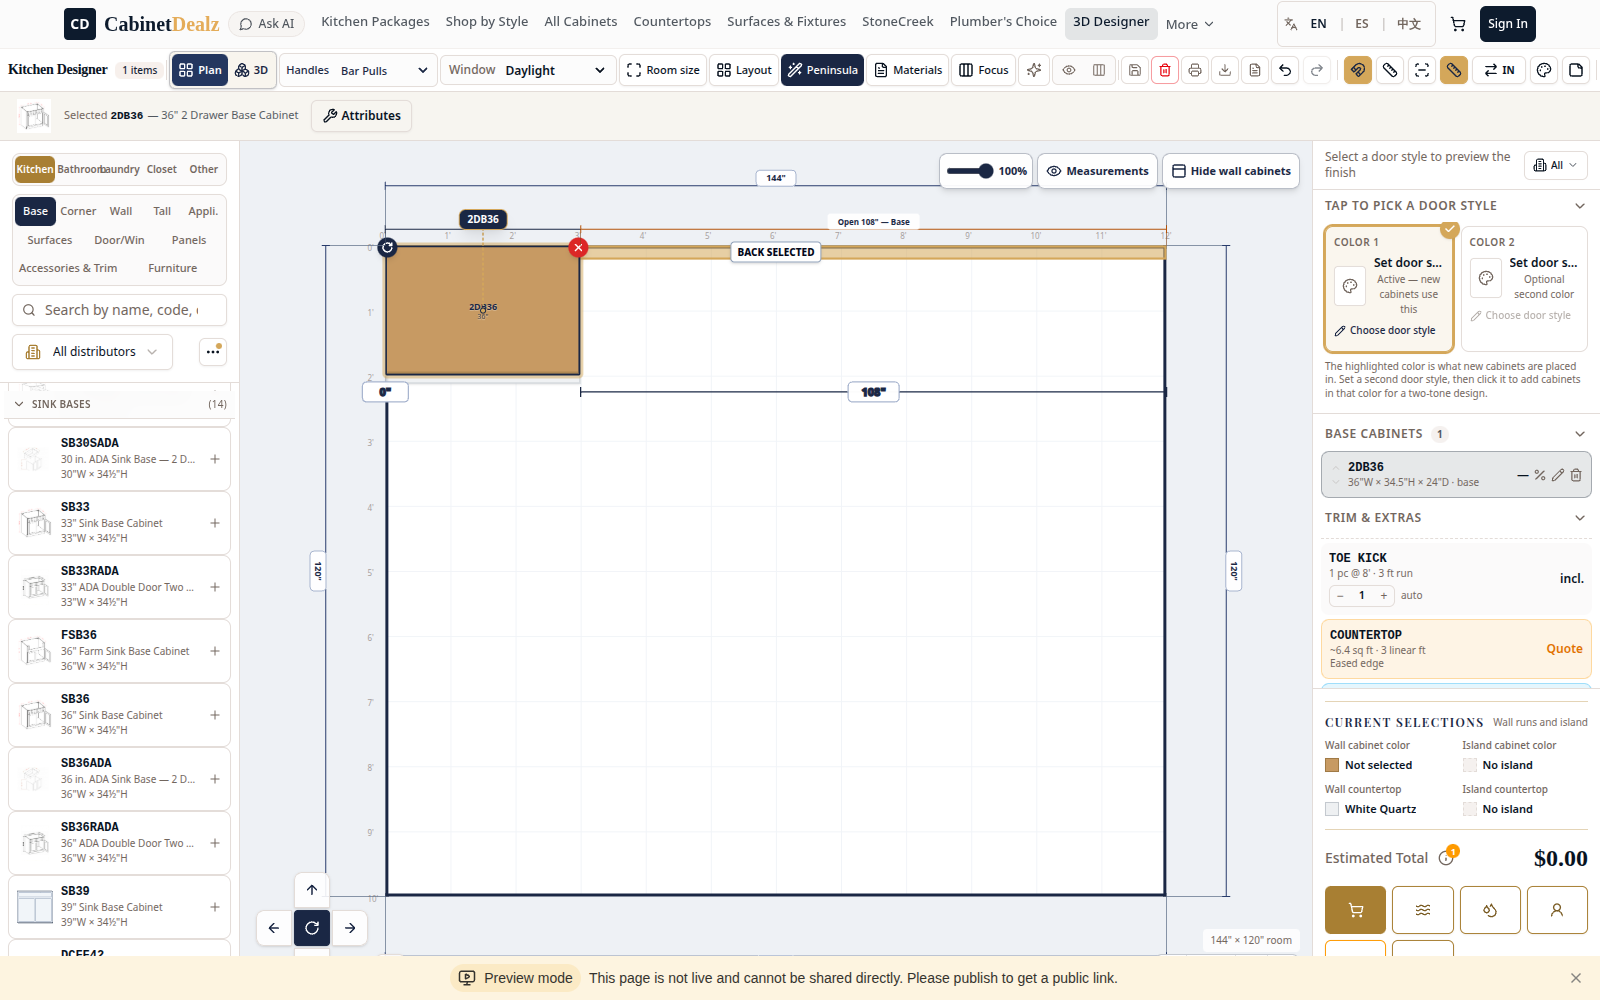
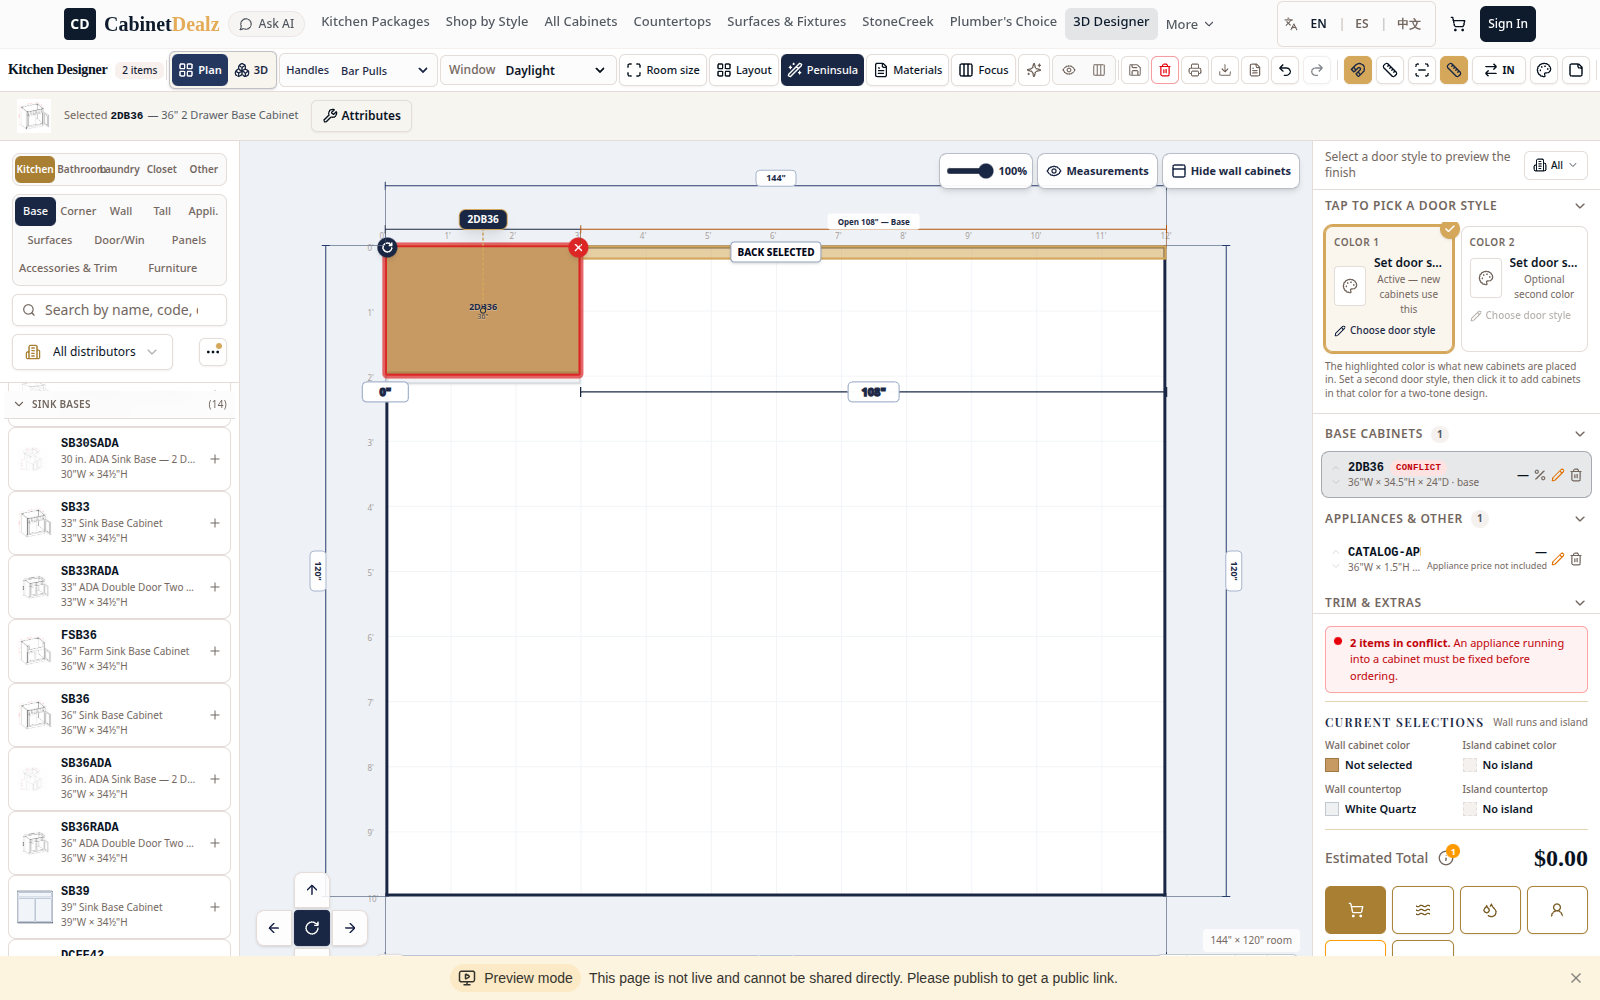
Checkpoint: Unpublished regular Designer correction: first-class countertop-opening cooktops are preserved only when their :cooktop placement matches the exact supporting base UID, position, dimensions, rotation and wall/island context; mismatched overlaps remain rejected. The same owned pair is exc

Changed region(s): [[0.8125, 0.434, 1.0, 0.713], [0.25, 0.279, 0.375, 0.403], [0.25, 0.217, 0.3438, 0.248]]

diff --git a/client/src/components/design/InteractiveRoom3D.tsx b/client/src/components/design/InteractiveRoom3D.tsx
@@ -9486,6 +9486,26 @@ export function InteractiveRoom3D({ scene, placed = [], crown = false, toeKick =
   const requestPhotoVerificationMutation = trpc.designPhotoRenders.requestPhoneVerification.useMutation();
   const confirmPhotoVerificationMutation = trpc.designPhotoRenders.confirmPhoneVerification.useMutation();
   useEffect(() => {
+    if (!import.meta.env.DEV || typeof window === "undefined") return;
+    const room = roomOverride ?? { width: 144, depth: 120, ceilingHeight: 96 } as RoomData;
+    const sceneItems = placed.map((item) => {
+      const sku = existingCabinetSku(item, room);
+      const transform = existingCabinetTransform(item, room);
+      const meshKind = sku.applianceRole === "countertop-opening"
+        ? /gas/i.test(sku.description ?? "") ? "cooktop-gas" : /induction/i.test(sku.description ?? "") ? "cooktop-induction" : /electric|smooth/i.test(sku.description ?? "") ? "cooktop-electric" : "cooktop-opening"
+        : sku.placementType === "appliance" ? "appliance" : sku.placementType ?? "cabinet";
+      return { uid: item.uid, code: item.masterCode, placement: item.placement, x: item.x, y: item.y, z: transform.z, width: Number(sku.width), depth: Number(sku.depth), height: Number(sku.height), mountBottom: sku.mountBottom, islandFace: item.islandFace ?? null, wallId: item.wallId ?? null, rotation: item.rotation ?? 0, mappedMeshKind: meshKind, skuPlacement: sku.placementType, applianceRole: sku.applianceRole ?? null };
+    });
+    const debugWindow = window as typeof window & { __cdDebug?: unknown; __cdDebugInstances?: Record<string, unknown> };
+    const instanceKey = embedded ? "embedded" : "native";
+    debugWindow.__cdDebugInstances = { ...(debugWindow.__cdDebugInstances ?? {}), [instanceKey]: {
+      sceneItems,
+      planItems: placed.map((item) => ({ uid: item.uid, code: item.masterCode, placement: item.placement, x: item.x, y: item.y, width: item.width, depth: item.depth, height: item.height, islandFace: item.islandFace ?? null, wallId: item.wallId ?? null })),
+      elevationItems: placed.map((item) => ({ uid: item.uid, code: item.masterCode, placement: item.placement, width: item.width, height: item.height, mountBottom: item.mountBottom ?? null, islandFace: item.islandFace ?? null })),
+    }};
+    debugWindow.__cdDebug = debugWindow.__cdDebugInstances;
+  }, [embedded, placed, roomOverride]);
+  useEffect(() => {
     if (!temporaryPreviewTransitionKey || typeof window === "undefined") { setTemporaryPreviewFading(false); return; }
     const reducedMotion = window.matchMedia?.("(prefers-reduced-motion: reduce)").matches ?? false;
     if (!threeDPreviewFadeAllowed(reducedMotion)) { setTemporaryPreviewFading(false); return; }

diff --git a/client/src/lib/design.ts b/client/src/lib/design.ts
@@ -3818,6 +3818,18 @@ export function removeOverlappingPlacements(placements: PlacedCabinet[], room?: 
       resolution.placed.push(candidate);
       continue;
     }
+    // A countertop-opening cooktop intentionally occupies the same plan bay as
+    // its supporting base box. It is a nested visual/appliance placement, not a
+    // second freestanding cabinet, so the generic overlap repair must not
+    // delete it immediately after a successful legacy-SB conversion.
+    const ownerUid = candidate.uid.endsWith(":cooktop") ? candidate.uid.slice(0, -":cooktop".length) : null;
+    const supportingBase = ownerUid
+      ? resolution.placed.find((item) => item.uid === ownerUid && item.placement === "base" && Math.abs(item.x - candidate.x) < COLLISION_EPSILON_IN && Math.abs(item.y - candidate.y) < COLLISION_EPSILON_IN && Math.abs(item.width - candidate.width) < COLLISION_EPSILON_IN && Math.abs(item.depth - candidate.depth) < COLLISION_EPSILON_IN && Math.abs(Number(item.rotation ?? 0) - Number(candidate.rotation ?? 0)) < COLLISION_EPSILON_IN && item.wallId === candidate.wallId && item.islandFace === candidate.islandFace)
+      : null;
+    if (candidate.placement === "appliance" && candidate.applianceRole === "countertop-opening" && supportingBase) {
+      resolution.placed.push(candidate);
+      continue;
+    }
     const appended = appendCollisionFreePlacements(resolution.placed, [candidate], room);
     resolution.placed = appended.placed;
     resolution.rejected.push(...appended.rejected);
@@ -4803,6 +4815,17 @@ export function conflictingUids(placed: PlacedCabinet[], room?: RoomData): Set<s
         (isSinkAppliance(a) && isSinkBaseCabinet(b)) ||
         (isSinkAppliance(b) && isSinkBaseCabinet(a));
       if (sinkOverSinkBase) continue;
+      const cooktopOverOwnBase = (cooktop: PlacedCabinet, base: PlacedCabinet) => (
+        cooktop.placement === "appliance"
+        && cooktop.applianceRole === "countertop-opening"
+        && cooktop.uid === `${base.uid}:cooktop`
+        && base.placement === "base"
+        && Math.abs(cooktop.x - base.x) < COLLISION_EPSILON_IN
+        && Math.abs(cooktop.y - base.y) < COLLISION_EPSILON_IN
+        && Math.abs(cooktop.width - base.width) < COLLISION_EPSILON_IN
+        && Math.abs(cooktop.depth - base.depth) < COLLISION_EPSILON_IN
+      );
+      if (cooktopOverOwnBase(a, b) || cooktopOverOwnBase(b, a)) continue;
       // EXEMPTION: a bridge (short) wall cabinet mounted over an over-range
       // microwave/hood is the intended layout, so it must never be flagged.
       if (isBridgeOverRange(a, b)) continue;

diff --git a/client/src/pages/DesignTool.tsx b/client/src/pages/DesignTool.tsx
@@ -958,16 +958,15 @@ function ScopedDesignTool({ affiliateSlug: affiliateSlugProp }: { affiliateSlug?
   // sink base changes. This removes a stale elevated mount after a window is
   // deleted while preserving the minimum valid clearance when a window remains.
   useEffect(() => {
-    const normalized = normalizeGlassStackersToParentFronts(
-      normalizeStandardWallMounts(
-        normalizeWd18CountertopMounts(normalizeOverSinkWallMounts(placed, openings, room)),
-        openings,
+    setPlaced((current) => normalizeGlassStackersToParentFronts(
+        normalizeStandardWallMounts(
+          normalizeWd18CountertopMounts(normalizeOverSinkWallMounts(current, openings, room)),
+          openings,
+          room,
+        ),
         room,
-      ),
-      room,
-    );
-    if (normalized !== placed) setPlaced(normalized);
-  }, [placed, openings, room]);
+      ));
+  }, [placed, openings, room, setPlaced]);
   // Trim toggles rendered in elevation + added to the BOM. Toe kick, crown,
   // light rail, and batten AUTO-APPLY based on their physical layout rules.
   // An arched valance is decorative and must be deliberately selected—having a
@@ -18009,7 +18008,12 @@ function ScopedDesignTool({ affiliateSlug: affiliateSlugProp }: { affiliateSlug?
           if (legacyWithRangeTop) {
             const conversion = convertLegacyCooktopPlacements(
               placed.map((item) => item.uid === legacyWithRangeTop.uid ? legacyWithRangeTop : item),
-              ((autoFillCabinets as DesignCabinet[] | undefined) ?? []),
+              // The dedicated base query can still be pending when Attributes
+              // opens immediately after the catalog. The already-loaded active
+              // catalog is the same source of truth and avoids a false conflict.
+              (((autoFillCabinets as DesignCabinet[] | undefined)?.length
+                ? (autoFillCabinets as DesignCabinet[])
+                : ((liveMasterCabinets as DesignCabinet[] | undefined) ?? []))),
             );
             if (conversion.convertedCabinetUids.has(legacyWithRangeTop.uid)) {
               // Keep imperative placement consumers (history, move handlers, and

diff --git a/client/src/lib/cooktopConversion.test.ts b/client/src/lib/cooktopConversion.test.ts
@@ -3,6 +3,7 @@ import {
   convertLegacyCooktopPlacements,
   countertopArea,
   isBaseHeightAppliance,
+  removeOverlappingPlacements,
   type DesignCabinet,
   type PlacedCabinet,
 } from "./design";
@@ -41,6 +42,19 @@ const standardBase = ({ width = 36 } = {}) => ({
 }) as unknown as DesignCabinet;
 
 describe("convertLegacyCooktopPlacements", () => {
+  it("preserves an owned cooktop over its exact supporting base, but not a mismatched bay", () => {
+    const converted = convertLegacyCooktopPlacements([base({ sinkTopType: "gas" })], [standardBase()]);
+    const cooktop = converted.placed.find((item) => item.applianceRole === "countertop-opening")!;
+    expect(removeOverlappingPlacements(converted.placed).placed.map((item) => item.uid)).toEqual([
+      "sb-36",
+      "sb-36:cooktop",
+    ]);
+    expect(removeOverlappingPlacements([
+      converted.placed[0]!,
+      { ...cooktop, x: 12 },
+    ]).placed.map((item) => item.uid)).toEqual(["sb-36"]);
+  });
+
   it("keeps the applied cooktop in the plan, elevation, and 3D placement contract", () => {
     const converted = convertLegacyCooktopPlacements([base({ sinkTopType: "gas" })], [standardBase()]);
     const cooktop = converted.placed.find((item) => item.applianceRole === "countertop-opening");
